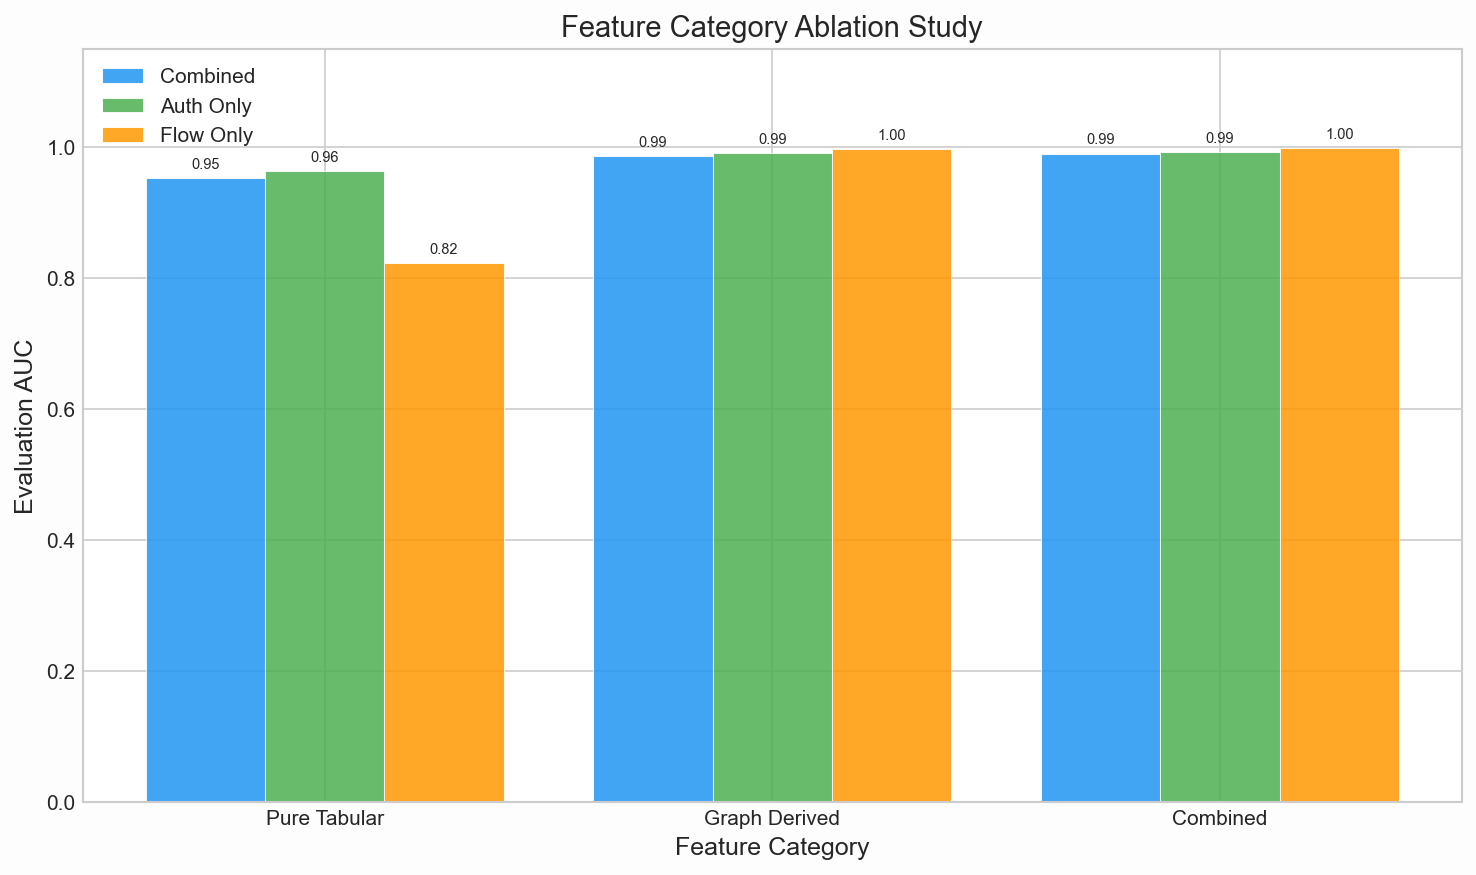
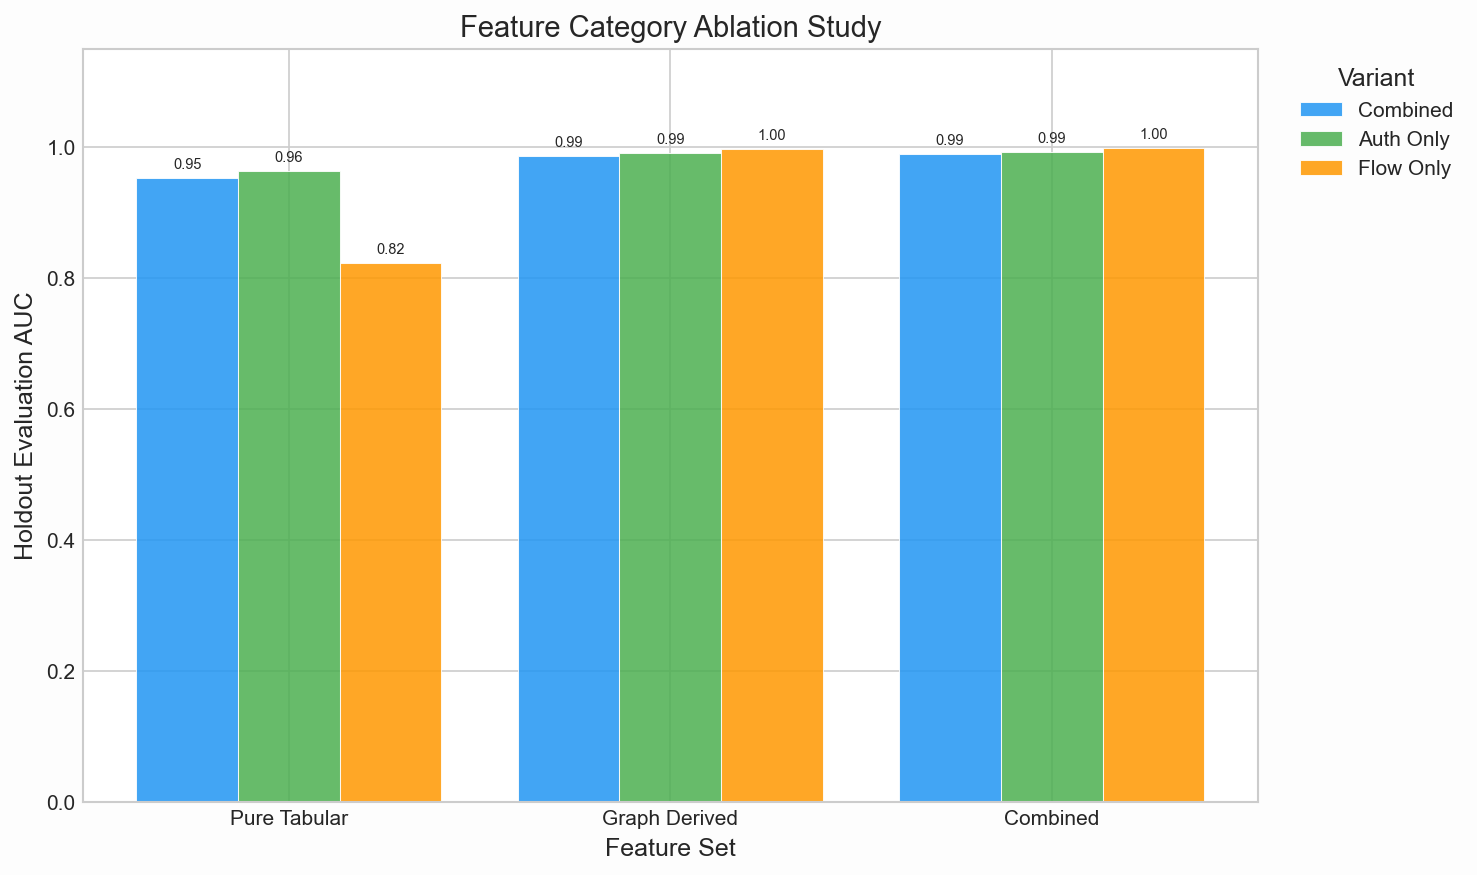
new figures

diff --git a/report/presentation/Presentation.md b/report/presentation/Presentation.md
@@ -89,9 +89,11 @@ Connection features include edge rarity, NTLM, network logon, auth success, late
 ## Slide 11: NTLM and Graph Degree Dominate Single-Feature Signal
 
 ### Slide content
-![Feature audit](feature_audit.png)
+![Feature audit – auth only](feature_audit_auth_only.png)  
+![Feature audit – combined](feature_audit_combined.png)  
+![Feature audit – flow only](feature_audit_flow_only.png)
 
-- How to read: x-axis = ROC AUC; y-axis = candidate feature; panels = graph variant; dashed 0.5 = random ranking.
+- How to read: x-axis = ROC AUC; y-axis = candidate feature; each panel is one graph variant; dashed 0.5 = random ranking.
 - Takeaway: NTLM/network-logon semantics and destination degree are the strongest single-feature signals.
 
 ### Speaker notes
@@ -140,9 +142,11 @@ One-Class SVM uses an RBF kernel with `nu=0.1`; Isolation Forest uses 100 trees,
 ## Slide 17: Combined Graph Ranks Best While Keeping Alert Cost Low
 
 ### Slide content
-![Method comparison](method_comparison.png)
+![Method comparison – AUC](method_comparison_auc.png)  
+![Method comparison – F1](method_comparison_f1.png)  
+![Method comparison – Recall](method_comparison_recall.png)
 
-- How to read: x-axis = graph variant; y-axis = metric score; panels = AUC, F1, recall; colors = detector.
+- How to read: x-axis = graph variant; y-axis = metric score; each panel is one metric (AUC, F1, recall); colors = detector.
 - Takeaway: graph scoring gives the best combined-variant AUC; Isolation Forest buys recall with more alert cost.
 
 ### Speaker notes
@@ -192,9 +196,11 @@ Pure tabular features reach eval AUC 0.9529. Graph-derived features alone reach 
 ## Slide 22: Multi-Hop Extensions Add Mostly Modest Label-Free Gains
 
 ### Slide content
-![Feature sweep](feature_sweep.png)
+![Feature sweep – auth only](feature_sweep_auth_only.png)  
+![Feature sweep – combined](feature_sweep_combined.png)  
+![Feature sweep – flow only](feature_sweep_flow_only.png)
 
-- How to read: x-axis = added graph feature group; y-axis = evaluation AUC; dashed line = local-feature baseline.
+- How to read: x-axis = added graph feature group; y-axis = evaluation AUC; each panel is one variant; dashed line = local-feature baseline.
 - Takeaway: known-seed PageRank is strongest but conditional; k-core is the cleanest label-free extension.
 
 ### Speaker notes
